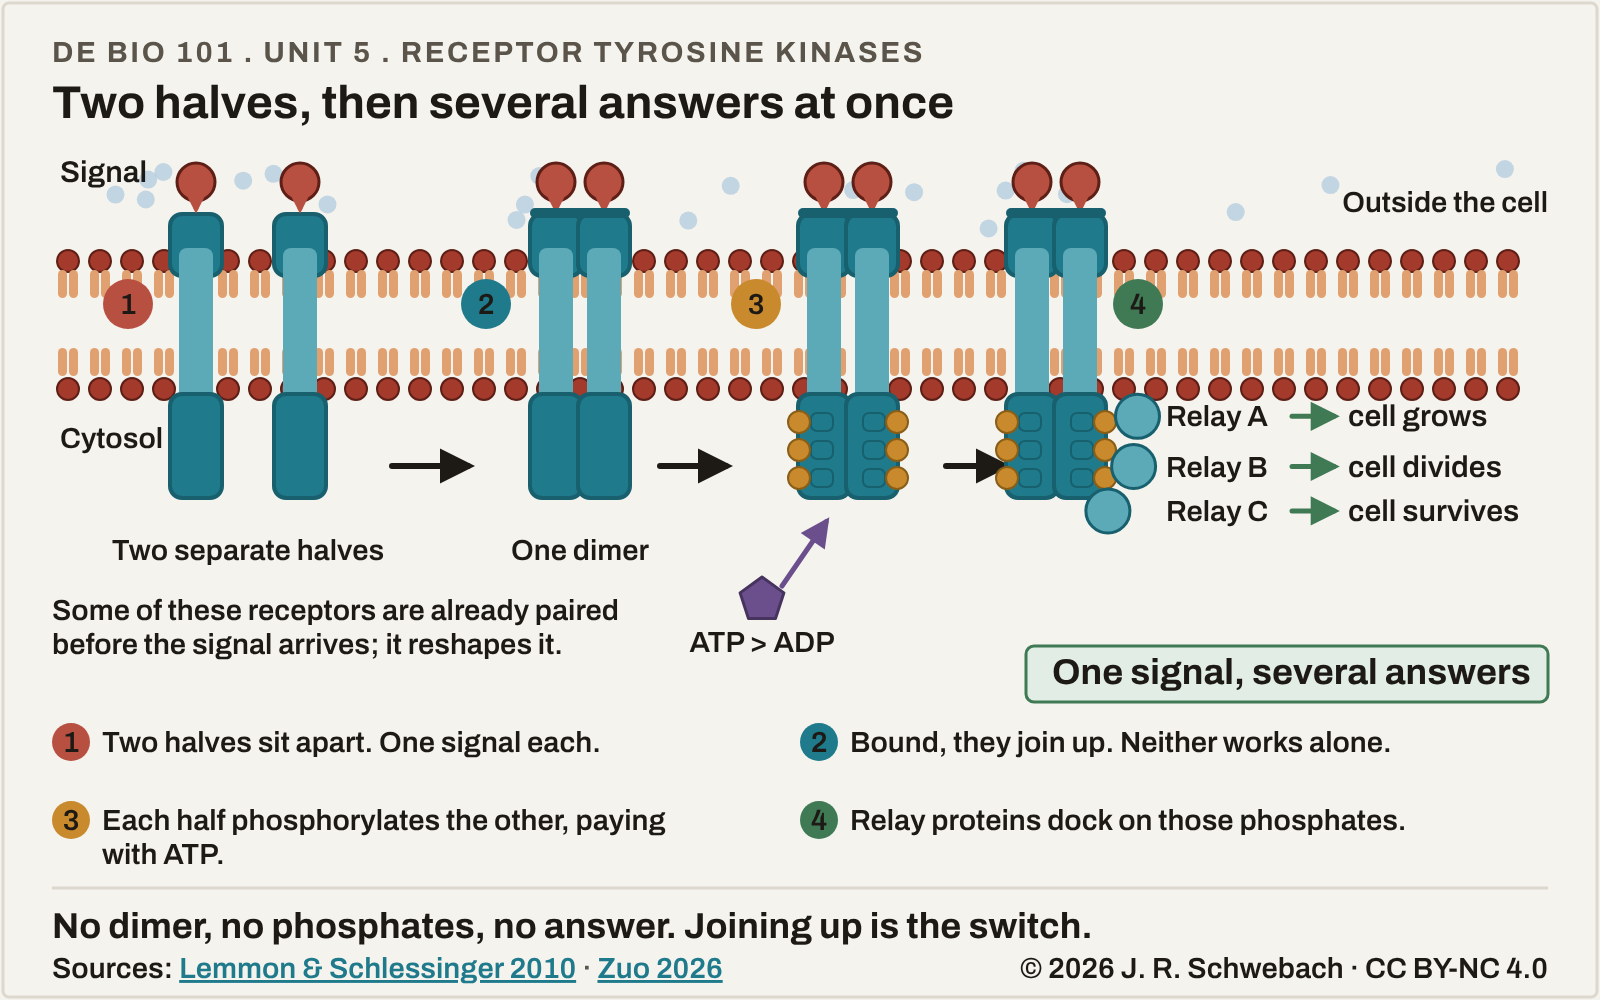
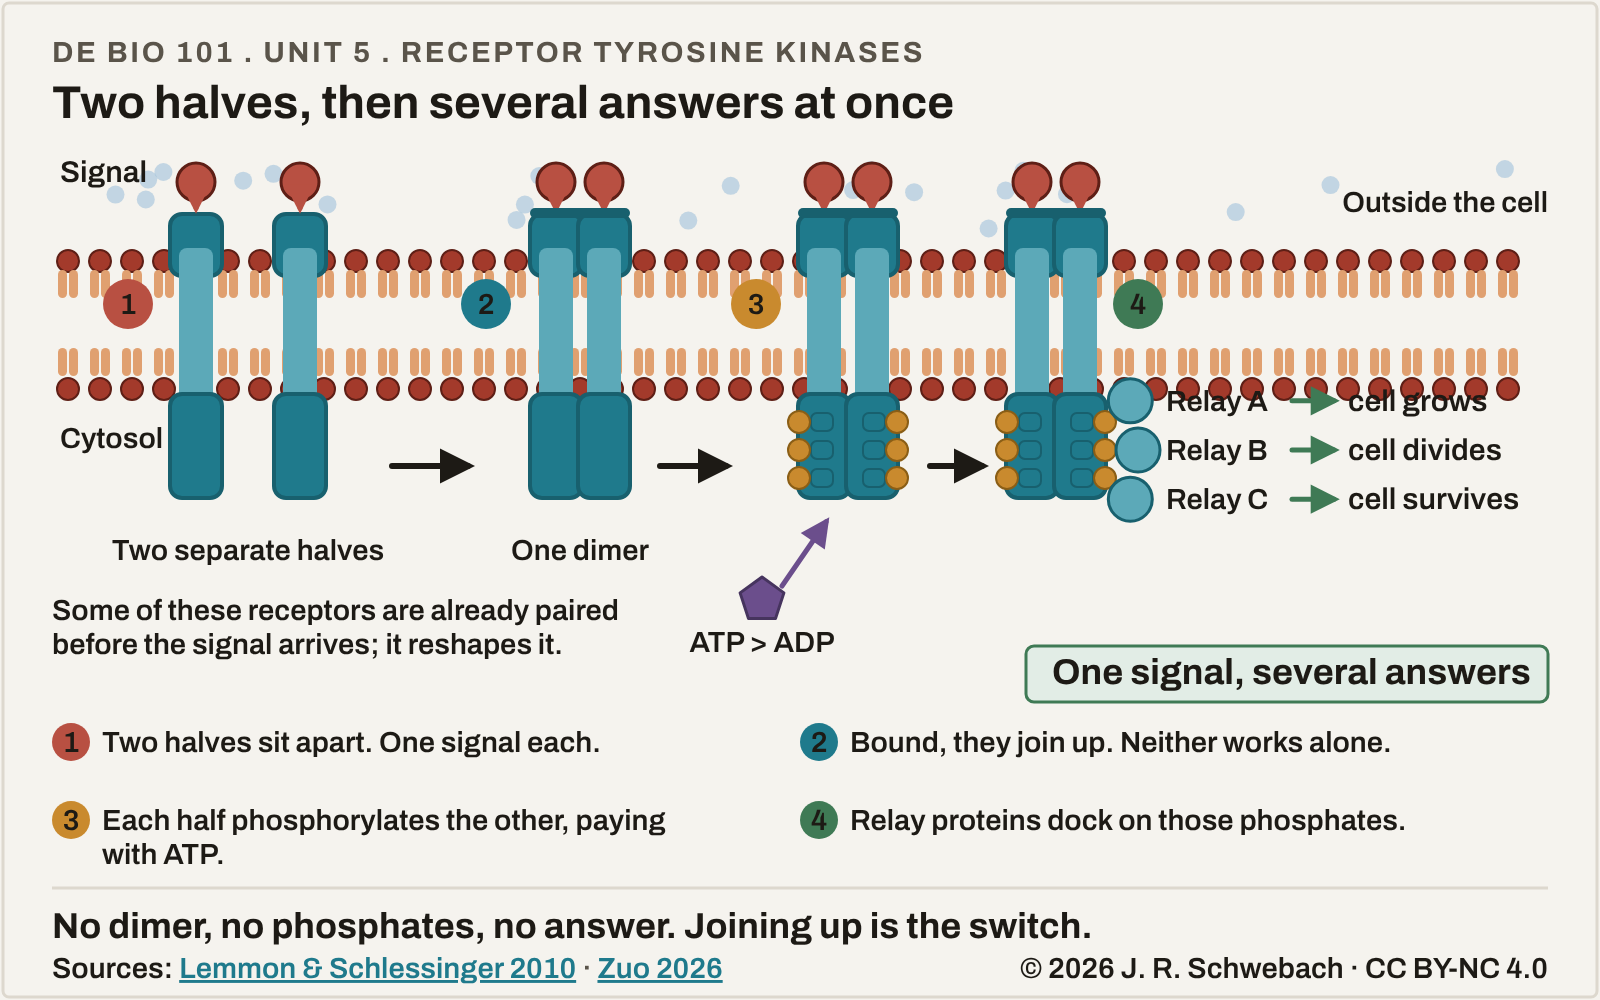
rtk: three layout fixes from Claude's overnight review of the still and the final frame
Why: the first re-render left the stage 3 to 4 arrow running into stage 4's left-tail
phosphotyrosines, Relay C hanging over the right tail's foot, and six spent ADP lying in
the final frame in ATP's own colour and shape, where a student could read them as six ATP
still waiting.

(1) The stage 3 to 4 arrow now runs 930 to 982, its tip at 989, clear of the phosphates
whose edge is at 995. (2) The three relays fan at -40, 0 and +40 degrees, 33 px from their
phosphates: all three sit to the right of the tail, each touching its own phosphate, and
they clear each other by about 3 px. Relay A's top reaches the inner leaflet's heads, as
the receptor's own tail does; with 22 px relays on a 28 px column that is the only way to
keep C from under the tail. Label column, arrows and responses aligned to each relay's y,
type floor held, check.py clean, both copies re-rendered, PNG text chunks kept, crop
updated. (3) Each ADP now drifts down round the ATP > ADP label, through the gap between
the legend's two columns, and out of the frame (one second, continuously visible, T18), so
the last frame is the still and rtk's T3 falls from 0.584 % to text edges only.

Step 3 is 4.7 s so the last ADP is gone before the step ends.

Claude-Session: https://claude.ai/code/session_0193Hf4kpeLhKuzThAVShXs8

Changed region(s): [[0.6562, 0.372, 0.9688, 0.527], [0.5938, 0.434, 0.625, 0.496]]

diff --git a/biology/tools/mechanism-reel.html b/biology/tools/mechanism-reel.html
@@ -1545,8 +1545,8 @@ const ETC=(function(){
    signal is answered in several ways at once. Geometry is the still's own (fig2_rtk.py, stage 4
    re-rendered 2026-10-20 so every relay sits on a phosphate that sits on the tail). The still shows
    four stages side by side; the animation reveals them one per step, left to right, and the movers
-   travel inside each stage. The last step is the still, except where a traveller has moved: the six
-   ADP pentagons that paid for the six phosphates lie in the cytosol beside the dimer.
+   travel inside each stage. The last step is the still: the six ADP that paid for the six phosphates
+   have drifted down out of the frame, so nothing is left that is not on the still.
    Three things are the figure's content, not polish (brief, 2026-10-19):
    - trans-autophosphorylation: each phosphate leaves an ATP at one half's kinase domain and crosses
      to a tyrosine on the OTHER half's tail (D2, T30);
@@ -1567,15 +1567,17 @@ const RTK=(function(){
   const TY=[MB+22,MB+50,MB+78];              /* the three tyrosines on each tail: 422, 450, 478 */
   const POOL=[762,600];                      /* the still's ATP > ADP token: the pool the six ATP come from */
   const KL=[818,518],KR=[878,518];           /* where an ATP docks: the foot of the left and the right kinase domain */
-  /* the six phosphates, in the order they are paid for: target tail, tyrosine row, donor kinase, and where the spent ADP comes to rest.
-     Sides alternate so the crossing is visible: the first ATP docks at the RIGHT half's kinase and its phosphate crosses to the LEFT tail */
-  const PHOS=[{tail:"L",row:0,from:KR,rest:[918,556]},{tail:"R",row:0,from:KL,rest:[690,604]},{tail:"L",row:1,from:KR,rest:[926,630]},
-              {tail:"R",row:1,from:KL,rest:[648,662]},{tail:"L",row:2,from:KR,rest:[984,668]},{tail:"R",row:2,from:KL,rest:[700,690]}];
+  /* the six phosphates, in the order they are paid for: target tail, tyrosine row, donor kinase. Sides alternate so the crossing is
+     visible: the first ATP docks at the RIGHT half's kinase and its phosphate crosses to the LEFT tail. Every spent ADP drifts down
+     through the gap between the legend's two columns and out of the frame (EXIT, below the viewBox), the same shape and colour as
+     ATP, so it must not be left lying about to be read as ATP still waiting */
+  const PHOS=[{tail:"L",row:0,from:KR},{tail:"R",row:0,from:KL},{tail:"L",row:1,from:KR},{tail:"R",row:1,from:KL},{tail:"L",row:2,from:KR},{tail:"R",row:2,from:KL}];
+  const EXIT=[772,1040];
   const phAt=p=>[p.tail==="L"?LX-2-23:RX+2+23,TY[p.row]];   /* where the still parks the phosphate: 799 or 897 */
   /* stage 4's relays, as the re-rendered still fans them on the right tail's three phosphates (D1) */
-  const RELAY=[{id:"relA",lbl:"lblRelA",arr:"arrRA",resp:"lblRespA",name:"Relay A",says:"cell grows",ang:-10,from:[1250,598]},
-               {id:"relB",lbl:"lblRelB",arr:"arrRB",resp:"lblRespB",name:"Relay B",says:"cell divides",ang:30,from:[1352,566]},
-               {id:"relC",lbl:"lblRelC",arr:"arrRC",resp:"lblRespC",name:"Relay C",says:"cell survives",ang:85,from:[1196,650]}];
+  const RELAY=[{id:"relA",lbl:"lblRelA",arr:"arrRA",resp:"lblRespA",name:"Relay A",says:"cell grows",ang:-40,from:[1250,598]},
+               {id:"relB",lbl:"lblRelB",arr:"arrRB",resp:"lblRespB",name:"Relay B",says:"cell divides",ang:0,from:[1352,566]},
+               {id:"relC",lbl:"lblRelC",arr:"arrRC",resp:"lblRespC",name:"Relay C",says:"cell survives",ang:40,from:[1196,650]}];
   const relAt=r=>{const px=BX+2+23,py=TY[RELAY.indexOf(r)];const a=r.ang*Math.PI/180;return [+(px+33*Math.cos(a)).toFixed(1),+(py+33*Math.sin(a)).toFixed(1)];};
   const CLOSING="No dimer, no phosphates, no answer. Joining up is the switch.";
   const NOTE1="Some of these receptors are already paired",NOTE2="before the signal arrives; it reshapes it.";
@@ -1640,7 +1642,7 @@ const RTK=(function(){
        its rest) and, under it, the phosphate it carries (which crosses to the other tail) */
     PHOS.forEach((p,i)=>{const [kx,ky]=p.from;s+=grp({id:"atp"+i},phos(kx,ky,{id:"ph"+i})+pentagon(kx,ky,23,P.NUC,DEEP,3,{id:"adp"+i}));});
     /* 4. relay proteins dock, and the answers branch. The six phosphotyrosines are the still's; the relays drift in from the cytosol */
-    s+=arrow(946,466,1004,466,P.INK,6,"ar",null,{id:"a34"});
+    s+=arrow(930,466,982,466,P.INK,6,"ar",null,{id:"a34"});
     let p4=monomer(AX)+monomer(BX)+ligand(AX)+ligand(BX)+bar(AX);
     TY.forEach(y=>{p4+=tyrRect(AX-2,y,true)+phos(AX-2-23,y)+tyrRect(BX+2,y,true)+phos(BX+2+23,y);});
     s+=grp({id:"p4"},p4);
@@ -1672,7 +1674,7 @@ const RTK=(function(){
       S["tyr"+i]={o:k>=3?1:0};
       S["atp"+i]=k<=2?{x:POOL[0]-kx,y:POOL[1]-ky,o:0}:{};
       S["ph"+i]=k<=2?{}:{x:tx-kx,y:ty-ky};
-      S["adp"+i]=k<=2?{}:{x:p.rest[0]-kx,y:p.rest[1]-ky};});
+      S["adp"+i]=k<=2?{}:{x:EXIT[0]-kx,y:EXIT[1]-ky};});
     on("a34",4);on("p4",4);on("box4",4);on("closing",4);
     RELAY.forEach(r=>{const [cx,cy]=relAt(r);S[r.id]=k<=3?{x:r.from[0]-cx,y:r.from[1]-cy,o:0}:{};on(r.lbl,4);on(r.resp,4);S[r.arr]=k<=3?{x:-60,o:0}:{};});
     if(coda&&k===4){S.h1L={x:28};S.h1R={x:-28};S.ligA={x:-26,y:-32};S.ligB={x:26,y:-32};S.arrA={o:0};S.arrB={o:0};S.t1={o:0};}
@@ -1681,7 +1683,7 @@ const RTK=(function(){
      Step 3 is the energy beat: the first ATP docks, splits, and its phosphate crosses, 400 to 2000 ms, with nothing
      else moving (the focus dim has settled by 350); the other five splits follow quickly, each phosphate leaving only
      after its own ATP has docked (D3, T19). */
-  const R=rng(24);const J=(a,b)=>[a+(R()-.5)*26,b+(R()-.5)*20];const J2=(a,b)=>[a+(R()-.5)*10,b+(R()-.5)*6];
+  const R=rng(24);const J=(a,b)=>[a+(R()-.5)*26,b+(R()-.5)*20];const J2=(a,b)=>[a+(R()-.5)*10,b+(R()-.5)*6];const J3=(a,b)=>[a+(R()-.5)*6,b+(R()-.5)*20];
   const A=(d,dur,way)=>way?{d,dur,way}:{d,dur};
   const rel=(pts,[dx,dy])=>pts.map(([x,y])=>[x-dx,y-dy]);
   const SEQ={};
@@ -1691,8 +1693,9 @@ const RTK=(function(){
   /* step 2: the two halves, each with its signal, drift laterally in the membrane, touch, and the ligand bar joins them */
   SEQ[2]={a12:A(0,300),h2L:A(100,1400,[J2(-46,0),J2(-32,0),J2(-16,0),[4,0]]),h2R:A(100,1400,[J2(46,0),J2(30,0),J2(14,0),[-4,0]]),bar2:A(1500,300),b2:A(1600,300),lg2:A(1600,300),t2:A(1600,300)};
   /* step 3: six ATP, one slow beat. The first ATP leaves the pool at 400 and docks at the right half's kinase at 1100; its phosphate
-     crosses to the left tail 1200-2000 while the ADP drifts off. Then five quick ones, 360 ms apart, alternating sides */
-  SEQ[3]={a23:A(0,200),p3:A(0,200),atpPool:A(0,200),arrAtp:A(1100,300),lblAtp:A(1100,300),b3:A(4100,300),lg3:A(4100,300)};
+     crosses to the left tail 1200-2000 while the ADP drifts off (1 s, out of the frame by 2200). Then five quick ones, 360 ms apart,
+     alternating sides; the last ADP is gone by 4720 */
+  SEQ[3]={a23:A(0,200),p3:A(0,200),atpPool:A(0,200),arrAtp:A(1100,300),lblAtp:A(1100,300),b3:A(4400,300),lg3:A(4400,300)};
   const PAY=[];
   PHOS.forEach((p,i)=>{const [kx,ky]=p.from,[tx,ty]=phAt(p);const quick=i>0;
     const tA=quick?2000+360*(i-1):400,dA=quick?230:700;            /* the ATP's travel from the pool to the kinase */
@@ -1703,8 +1706,9 @@ const RTK=(function(){
     const arc=p.tail==="L"?[J2(850,532),J2(804,522),J2(788,ty+36)]:[J2(846,532),J2(892,522),J2(908,ty+36)];
     SEQ[3]["ph"+i]=A(tP,dP,rel(arc,[kx,ky]));
     SEQ[3]["tyr"+i]=A(tP+dP-60,150);
-    const drift=p.from===KR?[J((kx+p.rest[0])/2,(ky+p.rest[1])/2+10)]:[J((kx+p.rest[0])/2,(ky+p.rest[1])/2+12)];
-    SEQ[3]["adp"+i]=A(tP,quick?550:800,rel(drift,[kx,ky]));
+    /* the spent ADP drifts off: round the right end of the ATP > ADP label, down through the gap between the legend columns, and out */
+    const drift=p.from===KR?[J2(870,566),J2(862,650),J3(772,760),J3(772,870)]:[J2(806,560),J2(858,650),J3(772,760),J3(772,870)];
+    SEQ[3]["adp"+i]=A(tP,1000,rel(drift,[kx,ky]));
     PAY.push({atp:"atp"+i,paidAt:tA+dA,funds:["ph"+i],tyr:"tyr"+i,landsAt:tP+dP});});
   /* step 4: the fourth stage appears with its six phosphotyrosines; then, and only then, the three relays drift in from the cytosol by
      collisions, bump, and seat on three of them; they set off 150 ms after the panel's fade has ended, so the phosphates are there first (T31).
@@ -1714,7 +1718,7 @@ const RTK=(function(){
     const way=[J(fx+(cx-fx)*.3,fy+(cy-fy)*.3),J(fx+(cx-fx)*.6,fy+(cy-fy)*.6),J2(cx+8,cy+6),[cx-5,cy-2]];
     SEQ[4][r.id]=A(450+i*60,1100,rel(way,[cx,cy]));
     SEQ[4][r.lbl]=A(1550,250);SEQ[4][r.arr]=A(1700+[0,75,150][i],450);SEQ[4][r.resp]=A(1700+[0,75,150][i],450);});
-  const DUR=[0,1400,1900,4400,2600];
+  const DUR=[0,1400,1900,4700,2600];
   const BEATS={3:{name:"the first ATP is spent: it docks, splits, and its phosphate crosses to the other half",from:400,to:2000,ids:["atp0","ph0","adp0","tyr0","arrAtp","lblAtp"]}};
   /* T19, per phosphate (D3): each ATP has docked (paidAt) before its own phosphate leaves it. `each` lists all six */
   const PAYS=Object.assign({step:3,each:PAY},PAY[0]);

diff --git a/_briefs/figures/_source/tests/mechanism-reel-tests-rtk.js b/_briefs/figures/_source/tests/mechanism-reel-tests-rtk.js
@@ -260,13 +260,13 @@ async function t32(br,key){const sizes=[{width:1440,height:900,card:true},{width
        the dimer being phosphorylated holds at full (it is kept, not dimmed), and the phosphorylated tyrosine shows only when its phosphate lands */
     {await go(pg,2);await pg.evaluate(()=>__MR.goStep(3));await sleep(700);
       const mid=await pg.evaluate(()=>({f:__MR.focus(),live:!!document.querySelector('#card .cap.live'),h1:__MR.el('h1L').opacity,t1:__MR.el('t1').opacity,p3:__MR.el('p3').opacity,tyr0:__MR.el('tyr0').opacity,pool:__MR.el('atpPool').opacity}));
-      await sleep(1400);const landed=await pg.evaluate(()=>({tyr0:__MR.el('tyr0').opacity,tyr1:__MR.el('tyr1').opacity}));
+      await sleep(1550);const landed=await pg.evaluate(()=>({tyr0:__MR.el('tyr0').opacity,tyr1:__MR.el('tyr1').opacity}));   /* ~2.25 s: tyr0's fade ended at 2090, tyr1's starts at 2540 */
       await settle(pg);await sleep(450);const after=await pg.evaluate(()=>({f:__MR.focus(),live:!!document.querySelector('#card .cap.live'),h1:__MR.el('h1L').opacity,t1:__MR.el('t1').opacity,tyr:[0,1,2,3,4,5].map(i=>__MR.el('tyr'+i).opacity)}));
       const near=(a,b)=>Math.abs(a-b)<0.03;
       const ok=mid.f.live&&mid.f.scaled.includes('ph0')&&mid.f.scaled.includes('adp0')&&mid.f.scaled.length>=12&&mid.f.dimmedCount>12&&near(mid.h1,0.5)&&near(mid.t1,0.5)&&near(mid.p3,1)&&near(mid.pool,1)&&mid.tyr0<0.03&&mid.live
         &&landed.tyr0>0.97&&landed.tyr1<0.03&&!after.f.live&&after.f.scaled.length===0&&after.f.dimmedCount===0&&near(after.h1,1)&&near(after.t1,1)&&after.tyr.every(o=>o>0.97)&&!after.live;
       res('T21',ok,`${tag}: mid=${JSON.stringify({scaled:mid.f.scaled.length,dimmed:mid.f.dimmedCount,h1:mid.h1,t1:mid.t1,p3:mid.p3,tyr0:mid.tyr0,live:mid.live})} landed=${JSON.stringify(landed)} after=${JSON.stringify({scaled:after.f.scaled,dimmed:after.f.dimmedCount,h1:after.h1,tyr:after.tyr})}`);
-      note('T21',`${tag}: during step 3, ${mid.f.scaled.length} parts scaled and ${mid.f.dimmedCount} of ${mid.f.topCount} drawing parts dimmed; the dimer held at full while the first phosphate crossed; the first phosphorylated tyrosine showed only when its phosphate landed (at 2.1 s it was on, the second still off)`);}
+      note('T21',`${tag}: during step 3, ${mid.f.scaled.length} parts scaled and ${mid.f.dimmedCount} of ${mid.f.topCount} drawing parts dimmed; the dimer held at full while the first phosphate crossed; the first phosphorylated tyrosine showed only when its phosphate landed (at 2.25 s it was on, the second still off)`);}
     /* T22: committed predictions: 2-3 buttons of 44 px, Next never blocked, "You predicted" beside "What happened" */
     {await pg.evaluate(()=>__MR.reset());await settle(pg);
       const b=await pg.evaluate(()=>[...document.querySelectorAll('#predict .choices .opt')].map(x=>({t:x.textContent,h:x.getBoundingClientRect().height})));

diff --git a/_briefs/figures/_source/fig2_rtk.py b/_briefs/figures/_source/fig2_rtk.py
@@ -80,7 +80,8 @@ s += arrow(782, 586, 826, 522, NUC, 5, "arn")
 s += text(762, 652, "ATP > ADP", "min", "middle", NUC)
 
 # ---- 4. relay proteins dock, and the answers branch ------------------------
-s += arrow(946, 466, 1004, 466, INK, 6, "ar")
+# the arrow from stage 3 ends clear of stage 4's left-tail phosphotyrosines (tip at 989; their edge is at 995)
+s += arrow(930, 466, 982, 466, INK, 6, "ar")
 AX, BX = 1032, 1080
 s += monomer(AX) + monomer(BX) + ligand(AX) + ligand(BX)
 s += rrect(AX - 26, MY - 42, 100, 10, 5, PRO_SIDE)
@@ -93,10 +94,12 @@ for i in range(3):
     s += tyr(BX + 2, MB + 22 + i*28, 1, True)
 # each relay seats on one of the right tail's phosphates. Three 22 px circles on
 # 28 px spacing collide in a column, so they fan out: each centre is 33 px
-# (11 + 22, touching) from its own phosphate, at -10, 30 and 85 degrees
+# (11 + 22, touching) from its own phosphate, at -40, 0 and +40 degrees, which
+# keeps all three to the right of the tail and clear of each other; Relay A's
+# top reaches the inner leaflet, as the receptor's own tail does
 import math
 PHX = BX + 2 + 23
-RELAYS = (("Relay A", "cell grows", -10), ("Relay B", "cell divides", 30), ("Relay C", "cell survives", 85))
+RELAYS = (("Relay A", "cell grows", -40), ("Relay B", "cell divides", 0), ("Relay C", "cell survives", 40))
 for i, (name, resp, ang) in enumerate(RELAYS):
     py = MB + 22 + i*28
     cx = PHX + 33*math.cos(math.radians(ang))

diff --git a/_briefs/figures/_source/tests/t3-compare-rtk.py b/_briefs/figures/_source/tests/t3-compare-rtk.py
@@ -2,8 +2,8 @@
 """T3 for rtk: compare the stage screenshot written by mechanism-reel-tests-rtk.js with the delivered PNG,
 re-rendered on 2026-10-20 with stage 4 fixed (D1). Prints the pixel-difference percentage and writes a
 two-up image. Run from the tests folder after the suite. rtk has one level, so there is one frame. The
-expected difference is the six ADP pentagons that paid for the six phosphates and lie in the cytosol beside
-the dimer (one ATP per phosphate, D3; travel beats pixel-equivalence)."""
+six ADP that paid for the six phosphates have drifted out of the frame, so no difference is expected beyond
+text rendering."""
 import sys
 from PIL import Image
 import numpy as np

diff --git a/_briefs/figures/_source/tests/README.md b/_briefs/figures/_source/tests/README.md
@@ -24,7 +24,7 @@ python3 t3-compare-rtk.py                     # T3 for rtk, from the suite's own
 Chromium needs Archivo installed as a system font when the Google Fonts fetch is blocked, or T3 compares a
 fallback face: the stills embed Archivo 600 and 700 as woff2, and a copy converted to TTF (fontTools) in the
 user font folder is enough (`fc-cache -f` after; the family name inside the subset reads "Archivo SemiBold", so rename it to "Archivo" with fontTools if Chromium does not match it).
-`D1-rtk-stage4-before-after.png` is the crop the rtk brief asked for: stage 4 of the rtk still before and after the 2026-10-20 re-render.
+`D1-rtk-stage4-before-after.png` is the crop the rtk brief asked for: stage 4 of the rtk still as shipped and after the 2026-10-20 re-renders (relays at -40/0/+40).
 
 `mechanism-reel-tests.js` requires Playwright at `/opt/node22/lib/node_modules/playwright`; change the
 `require` line to `require('playwright')` after `npm i playwright` elsewhere. `t3-compare.py` needs Pillow and numpy.
